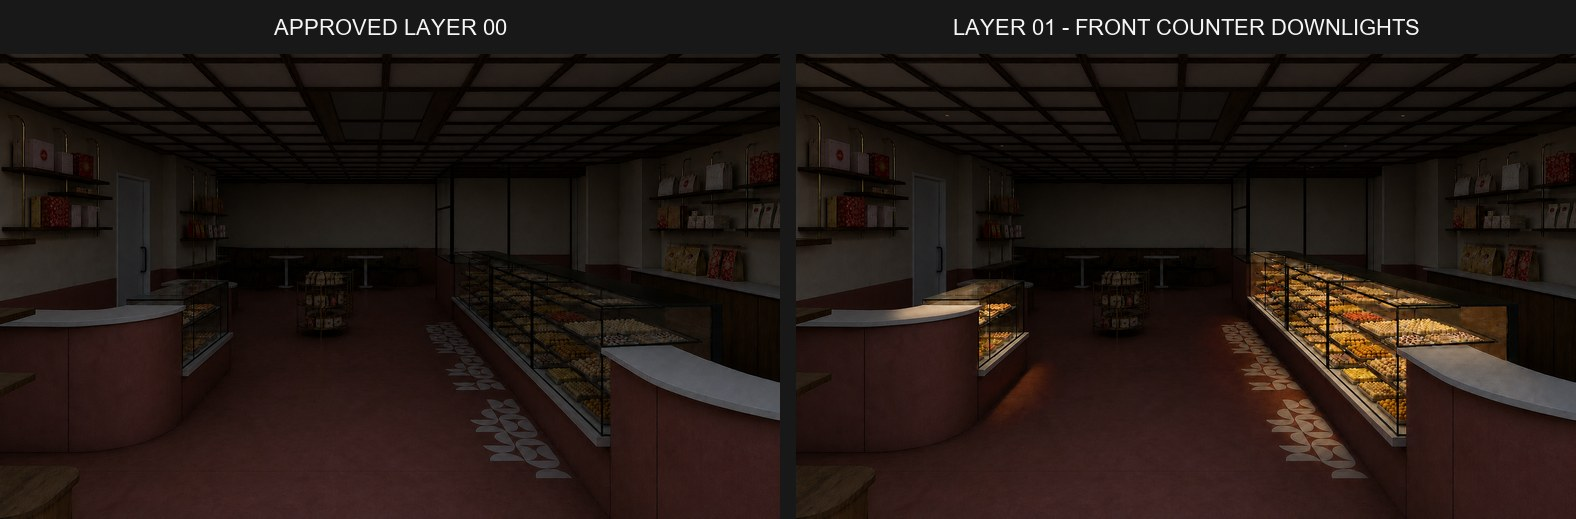
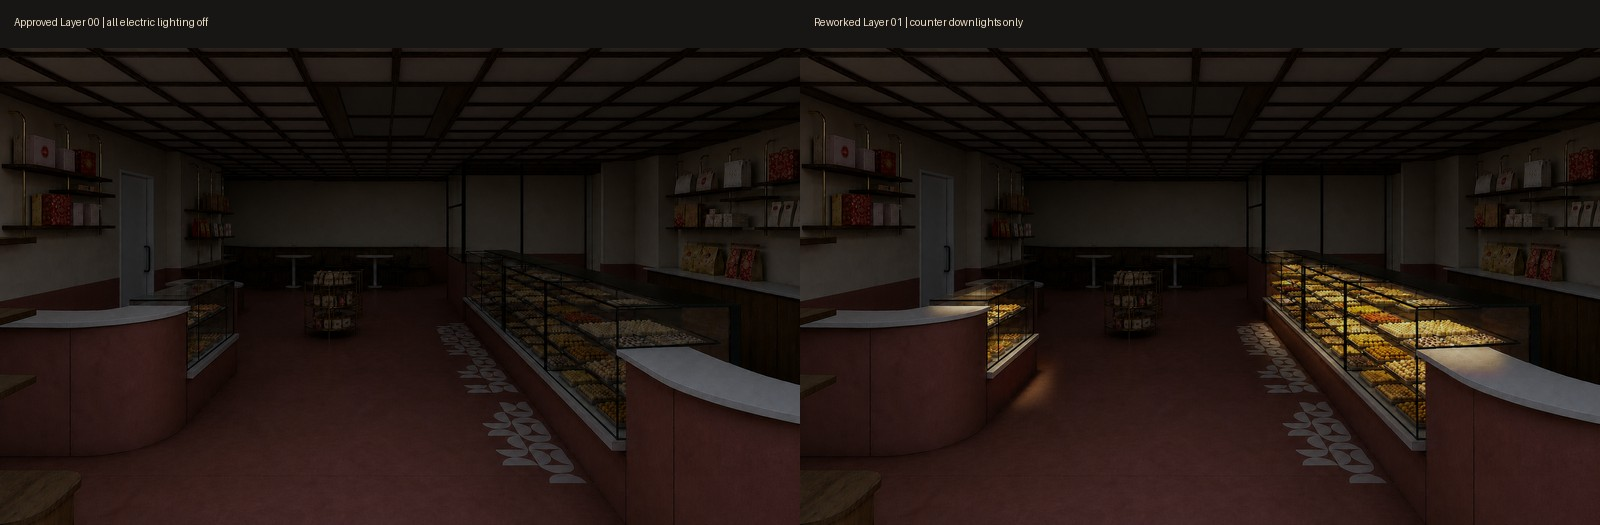
pulla reddy: submit reworked V01 Layer 01 for independent review

diff --git a/projects/pulla-reddy/review/V01/SELF_QA.md b/projects/pulla-reddy/review/V01/SELF_QA.md
@@ -1,30 +1,45 @@
-# V01 Layer 01 | Self QA
+# V01 Layer 01 Rework | Self-QA
 
-| Quality gate | Result | Evidence |
+This document records production QA only. It does not substitute for the independent reviewer decision required by `REVIEWER_RUBRIC.md`.
+
+## Hard-lock checks
+
+| Check | Result | Evidence |
 |---|---|---|
-| Camera and crop continuity | PASS | Both masters are 1624 x 968. Best edge alignment offset is x=0, y=0. |
-| Architecture continuity | PASS | Final master is approved Layer 00 plus positive-only light contribution. |
-| Ceiling-grid continuity | PASS | Grid geometry is inherited from Layer 00. Apertures are small, dark and deep recessed. |
-| Furniture and product continuity | PASS | No product, counter, shelf or furniture movement detected. |
-| Previous-layer freeze | PASS | No RGB channel is darker than Layer 00. Tested protected regions are exact parent pixels. |
-| Exact released circuit only | PASS | Only the long right counter and secondary left front counter receive downlighting and local spill. |
-| 3000K lighting | PASS | Added contribution is warm 3000K with no cool or mixed-CCT source. |
-| No visible non-recessed luminaires | PASS | No pendant, track or surface fixture is present. Recessed apertures remain visually quiet. |
-| No global exposure cheat | PASS | Rear, central-display and wall-shelf control regions have zero luminance change. |
-| No wall-wash or shelf-integrated light | PASS | Both wall-shelf control regions are exact Layer 00 pixels. |
-| No central-display, circulation or rear seating light | PASS | Central and rear control regions are exact Layer 00 pixels. |
-| Counter hierarchy | PASS | Right counter is strongest, with restrained secondary emphasis on the left counter. |
-| Glass reflection control | PASS | No obvious white blobs, blown reflections, bloom or mirror-like glare detected. |
-| Rendering defects | PASS | No seam, crop mismatch, geometry break, added object, haze or watermark detected. |
+| Dimensions | PASS | Layer 00 and candidate are both 1624 x 968 |
+| Camera, perspective and crop | PASS | Candidate is composited directly on the approved Layer 00 pixel grid |
+| Architecture and ceiling grid | PASS | Ceiling is exact Layer 00, maximum pixel delta 0 |
+| Shelves and unrelated walls | PASS | Protected shelf regions restored to exact Layer 00 pixels |
+| Central merchandise display | PASS | Protected region maximum pixel delta 0 |
+| Rear seating | PASS | Protected region maximum pixel delta 0 |
+| Previous-layer purity | PASS | Layer 00 is the sole parent; no other circuit is present |
+| Negative pixel deltas | PASS | 0 negative RGB channel deltas |
+| Global exposure cheat | PASS | Illumination is limited to counter-localized masks and restrained adjacent spill |
+| Added CCT | PASS | Positive contribution follows a consistent warm 3000K channel balance |
+| Visible fixture bodies | PASS | No ceiling apertures or fixture faces are introduced |
+| Output clipping | PASS | 0 output channels at clipping threshold in the final candidate |
+| Glass readability | PASS | Display glass remains transparent with no white blobs, bloom, or duplicated reflections |
 
-## Autonomous correction record
+## Hierarchy checks
 
-The first proposal was rejected internally because ceiling apertures were visually bright. A later quantitative check found unrelated zones had darkened. The published candidate corrects both issues by using quiet recessed apertures and compositing only positive lighting contribution over the approved parent.
+- Right sweet counter mean luminance increase: **+15.156**.
+- Left-front counter mean luminance increase: **+9.077**.
+- Ceiling, central display, and rear seating protected regions: **exactly unchanged**.
+- The right counter is intentionally the dominant hero; the left display is a secondary member of the same circuit.
 
-## Overall assessment
+## Rework corrections
 
-Reasonably compliant and ready for ChatGPT review.
+The first rework attempt was rejected internally before publication because floor spill was too broad and the light was too orange.
 
-## Uncertainty
+The submitted v4 candidate:
 
-Fine variation within the intentionally illuminated counter regions may remain from the generative lighting proposal. Independent review should focus on glass behavior, appetising product rendering and preferred counter-light intensity.
+1. narrows the contribution to overlapping counter-localized beam footprints;
+2. lowers secondary floor spill;
+3. reduces red dominance while preserving a warm 3000K appearance;
+4. suppresses all luminous ceiling-dot behavior;
+5. restores protected non-counter zones to exact Layer 00 pixels;
+6. preserves glass transparency and avoids clipped product highlights.
+
+## Known limitation
+
+Pixel statistics prove continuity and layer purity, not presentation quality. Independent ChatGPT visual/design review is still required before Layer 01 can become an approved parent.

diff --git a/projects/pulla-reddy/review/V01/STATUS.md b/projects/pulla-reddy/review/V01/STATUS.md
@@ -1,53 +1,44 @@
-# V01 Main Retail | Layer 01 Review Status
+# V01 Main Retail | Layer 01 Rework Review Status
 
-## State
+## Current control state
 
-Layer 00 is approved and remains the immutable parent. Layer 01 has been produced locally and submitted for ChatGPT review. Production is stopped at Layer 01. Layer 02 has not been generated.
+Layer 00 remains the only approved cumulative parent.
 
-## Authoritative local masters
+A fresh Layer 01 candidate has been rebuilt from Layer 00 only and is submitted for independent ChatGPT visual/design review. No Layer 02 work is released by this package.
 
+## Authoritative local files
+
+- Source: `D:/Codex/G Pulla Reddy Sweets/01_Views/V01_Main_Retail/source-view-01-original.jpg`
 - Approved parent: `D:/Codex/G Pulla Reddy Sweets/01_Views/V01_Main_Retail/layer-00-base-dark.png`
-- Layer 01 candidate: `D:/Codex/G Pulla Reddy Sweets/01_Views/V01_Main_Retail/layer-01-front-display-counter-downlights.png`
+- Reworked candidate: `D:/Codex/G Pulla Reddy Sweets/01_Views/V01_Main_Retail/layer-01-front-display-counter-downlights-v4.png`
 
-Both files are 1624 x 968 pixels.
+All three files are 1624 x 968 at the render stage, except the source is the original JPEG at the same dimensions.
 
-## Exact circuit introduced
+## Candidate scope
 
-Controlled deep-recessed 3000K downlighting serving only:
+Layer 01 adds only deep-recessed 3000K downlighting over:
 
-- the long glass sweet display counter on the right;
-- the secondary front display/service counter on the left;
-- physically necessary local spill immediately around those counters.
+- the long right-hand sweet display counter;
+- the smaller left-front display counter.
 
-No other lighting family was activated.
-
-## Autonomous corrections completed
-
-1. The first lighting proposal contained ceiling apertures that read too brightly. These were corrected to tiny, dark, deep-recessed apertures with restrained warm inner glints.
-2. The initial candidate darkened unrelated rear and shelf zones. The final master was rebuilt as a positive-only lighting contribution over approved Layer 00.
-3. Camera and crop were normalized to the approved 1624 x 968 parent with zero detected alignment offset.
-4. Protected rear, central-display and wall-shelf control regions were restored to exact Layer 00 pixels.
-
-## Final QA evidence
-
-- Best edge alignment offset: x=0, y=0.
-- Negative RGB channel deltas relative to Layer 00: 0.
-- Rear center, central display, left wall shelves and right wall shelves: exact pixel freeze in tested control regions.
-- Right counter region mean luminance increase: 21.28.
-- Left counter region mean luminance increase: 11.79.
-- No Layer 02 work has started.
+The rework tightens the counter-localized beam footprints, reduces floor spill, neutralizes the earlier orange bias, keeps the ceiling completely at Layer 00, and restores unrelated shelves, the central display, and rear seating to exact Layer 00 pixels.
 
 ## Review assets
 
 - `layer-01-front-display-counter-downlights-preview.jpg`
 - `layer-00-vs-layer-01.jpg`
-- `manifest.json`
+- `DESIGN_INTENT_CHECK.md`
 - `SELF_QA.md`
+- `manifest.json`
 
-## Requested review
+## Important review posture
 
-Please approve Layer 01 or publish a correction instruction through `CURRENT_INSTRUCTION.md` and set `STATE.json` to `codex_action_required`.
+The technical QA evidence confirms continuity but is not design approval. The candidate is intentionally waiting for independent visual/design review under `REVIEWER_RUBRIC.md`.
 
-## Known uncertainty
+## Local downstream note
 
-The proposed light appearance originated from a generative edit, but the final cumulative master applies only positive lighting contribution over the approved parent. Fine detail within the intentionally lit counter regions should still be independently reviewed, particularly glass reflection quality and preferred intensity.
+Some downstream files were generated locally under an earlier full-sequence release that Jarvis retracted while production was in progress. They were not published by this package, are not approved, and must not be treated as current cumulative parents.
+
+## Stop condition
+
+Production stops at reworked Layer 01. Layer 02 must not advance until Jarvis explicitly approves and releases it.

diff --git a/projects/pulla-reddy/review/V01/DESIGN_INTENT_CHECK.md b/projects/pulla-reddy/review/V01/DESIGN_INTENT_CHECK.md
@@ -1,0 +1,23 @@
+# V01 Layer 01 Rework | Design Intent Check
+
+## Product hierarchy
+
+The long right-hand sweet counter is the first visual destination because it receives the strongest counter-localized contribution. The smaller left display receives a softer companion contribution. The ceiling, wall shelves, central display, and rear hospitality zone remain at the approved Layer 00 state, preserving the intended retail-first contrast.
+
+## Beam realism
+
+The candidate uses overlapping localized footprints along the counter geometry rather than a uniform scene-wide lift. The receiving sweets, white counter surfaces, and immediately adjacent floor show controlled warm response and soft falloff. No luminous ceiling dots or visible fixture faces are introduced, so the recessed source remains subordinate to its effect.
+
+## Product color and CCT
+
+The early rework was too orange and was not submitted. The final contribution was color-balanced to retain warm 3000K appetite appeal while preserving cream, yellow, white, and red product separation. No output-channel clipping is present.
+
+## Glass control
+
+The base glass geometry and reflections remain locked. Added highlights are restrained to the counter-light response, with no white blobs, bloom, glowing glass edges, or duplicated reflection patterns.
+
+## Layer purity
+
+`Layer 01 v4 = approved Layer 00 + counter-downlight circuit only.`
+
+Protected ceiling, shelf, central-display, and rear-seating regions are exact Layer 00 pixels. Layer 02 is not part of this package and must not advance without explicit Jarvis approval.
